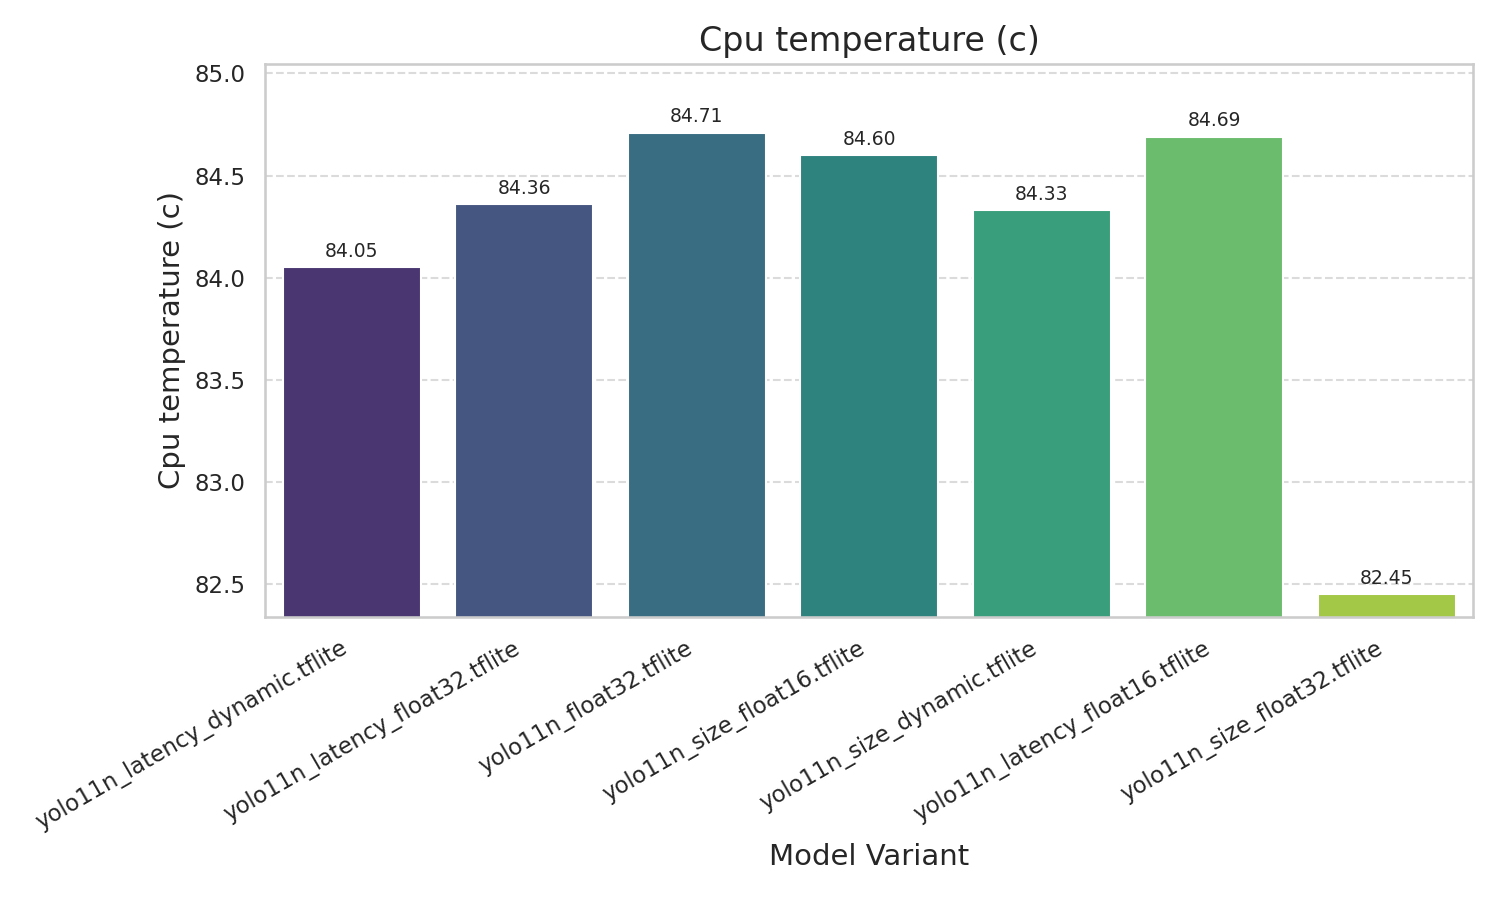
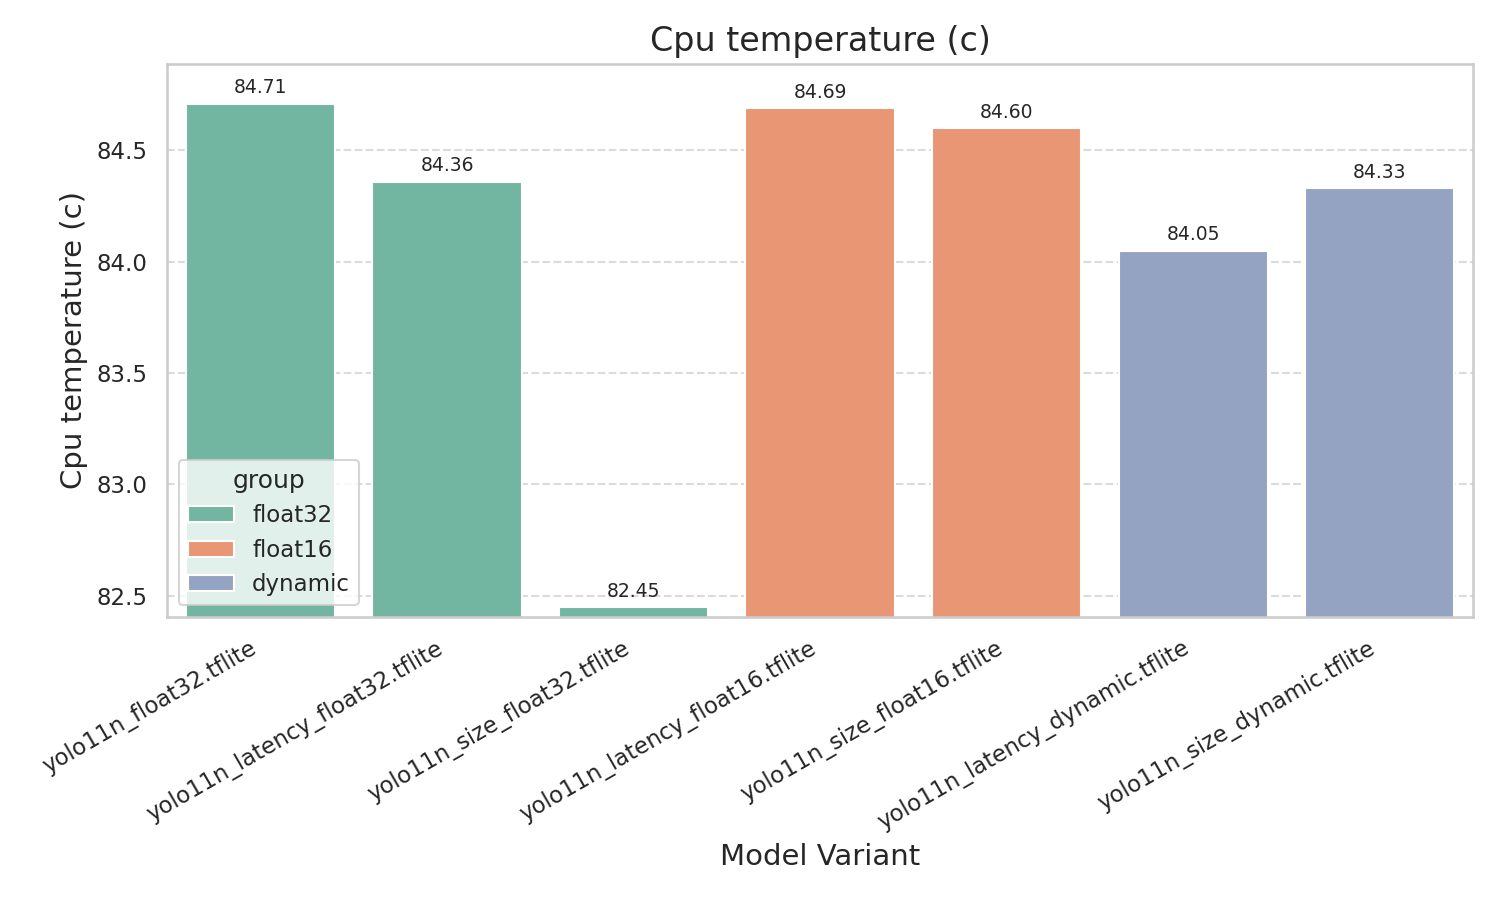
alter plot to group models

diff --git a/src/visualization/plot_benchmarks.py b/src/visualization/plot_benchmarks.py
@@ -24,25 +24,65 @@ if __name__ == '__main__':
 
     df = pd.DataFrame(rows)
 
-    # color palette for distinction
-    palette = sns.color_palette("viridis", len(df))
+    # Derive grouping from model filename
+    def get_group(name: str) -> str:
+        name = name.lower()
+        if 'float32' in name:
+            return 'float32'
+        if 'float16' in name:
+            return 'float16'
+        if 'dynamic' in name:
+            return 'dynamic'
+        return 'other'
+
+    def get_variant(name: str) -> str:
+        name = name.lower()
+        if 'latency' in name:
+            return 'latency'
+        if 'size' in name:
+            return 'size'
+        return 'base'
+
+    df['group'] = df['model_file'].apply(get_group)
+    df['variant'] = df['model_file'].apply(get_variant)
+
+    #  float32 -> float16 -> dynamic -> other
+    group_order = ['float32', 'float16', 'dynamic', 'other']
+    variant_order = ['base', 'latency', 'size']
+    df['_g'] = pd.Categorical(df['group'], categories=group_order, ordered=True)
+    df['_v'] = pd.Categorical(df['variant'], categories=variant_order, ordered=True)
+    df_sorted = df.sort_values(by=['_g', '_v', 'model_file']).reset_index(drop=True)
+
+    # Color palette per group
+    base_palette = sns.color_palette('Set2', 3) 
+    palette_map = {
+        'float32': base_palette[0],
+        'float16': base_palette[1],
+        'dynamic': base_palette[2],
+        'other': (0.6, 0.6, 0.6),  #  fallback
+    }
 
     output_dir = 'output/plots'
     os.makedirs(output_dir, exist_ok=True)
 
-
-    numeric_cols = df.select_dtypes(include='number').columns
+    # Only plot real metric columns, exclude helper columns
+    helper_cols = {'_g', '_v', 'group', 'variant'}
+    numeric_cols = [
+        c for c in df_sorted.columns
+        if (c not in helper_cols and c != 'model_file' and pd.api.types.is_numeric_dtype(df_sorted[c]))
+    ]
 
 
     for i, col in enumerate(numeric_cols):
         plt.figure(figsize=(10, 6))
         ax = sns.barplot(
-            data=df,
+            data=df_sorted,
             x='model_file',
             y=col,
-            hue='model_file',
-            palette=palette,
-            legend=False
+            hue='group',
+            palette=palette_map,
+            dodge=False,
+            order=df_sorted['model_file'],
         )
         plt.title(col.replace('_', ' ').capitalize(), fontsize=16)
         plt.ylabel(col.replace('_', ' ').capitalize(), fontsize=14)
@@ -50,17 +90,23 @@ if __name__ == '__main__':
         plt.xticks(rotation=30, ha='right', fontsize=11)
         plt.yticks(fontsize=11)
         plt.grid(axis='y', linestyle='--', alpha=0.7)
-        # Zoom y-axis to actual value range with a margin
-        ymin = df[col].min()
-        ymax = df[col].max()
+        # Zoom y-axis to actual value range with a slightly smaller margin
+        ymin = df_sorted[col].min()
+        ymax = df_sorted[col].max()
         yrange = ymax - ymin
-        plt.ylim(ymin - 0.05 * yrange, ymax + 0.15 * yrange)
+        if yrange == 0:
+            # fallback margin if all values equal
+            margin = 0.1 * (abs(ymax) if ymax != 0 else 1.0)
+            plt.ylim(ymin - margin, ymax + margin)
+        else:
+            plt.ylim(ymin - 0.02 * yrange, ymax + 0.08 * yrange)
         # Add value labels
         for p in ax.patches:
             height = p.get_height()
             ax.annotate(f'{height:.2f}',
                         (p.get_x() + p.get_width() / 2., height),
                         ha='center', va='bottom', fontsize=9, rotation=0, xytext=(0, 3), textcoords='offset points')
+       
         plt.tight_layout()
         plt.savefig(os.path.join(output_dir, f'benchmark_{col}.png'), dpi=150)
         plt.close()
